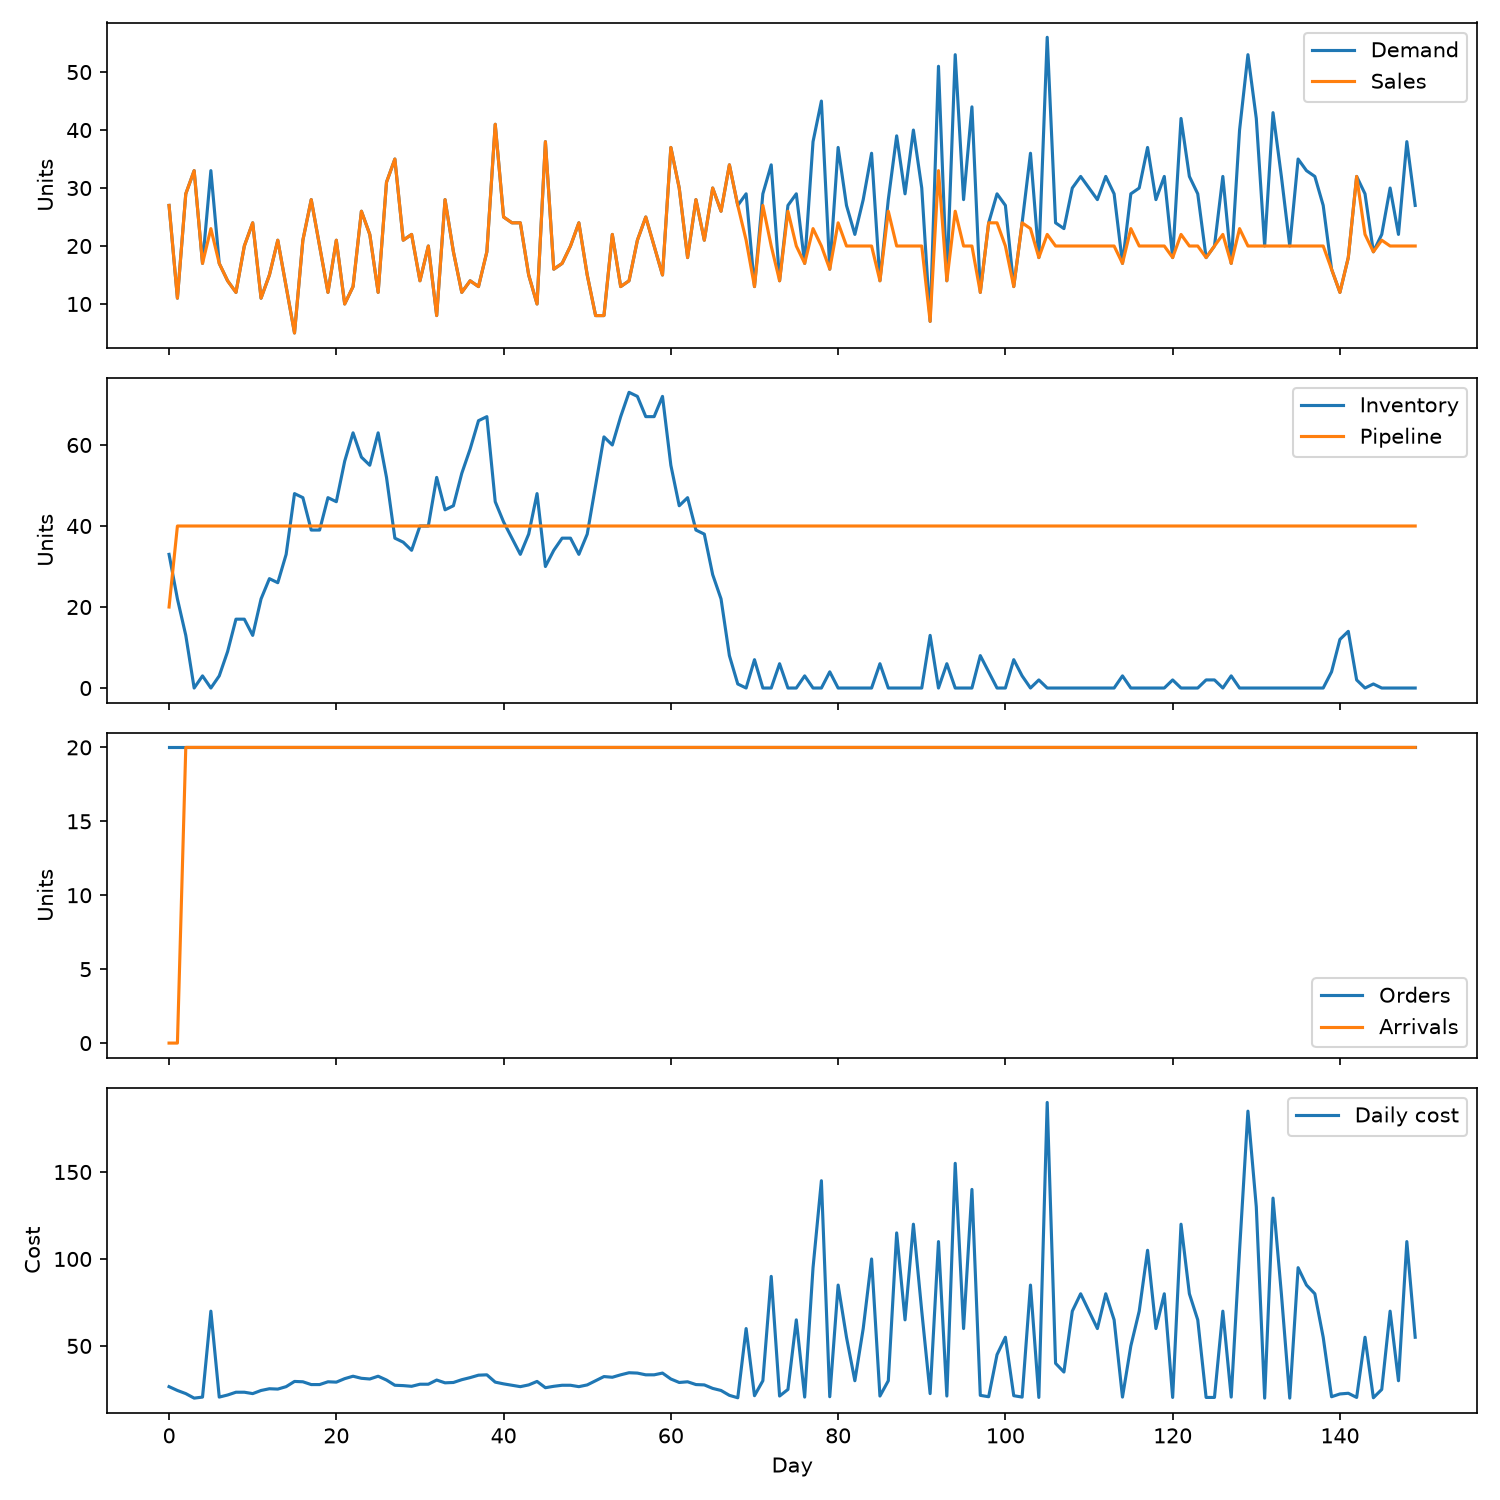
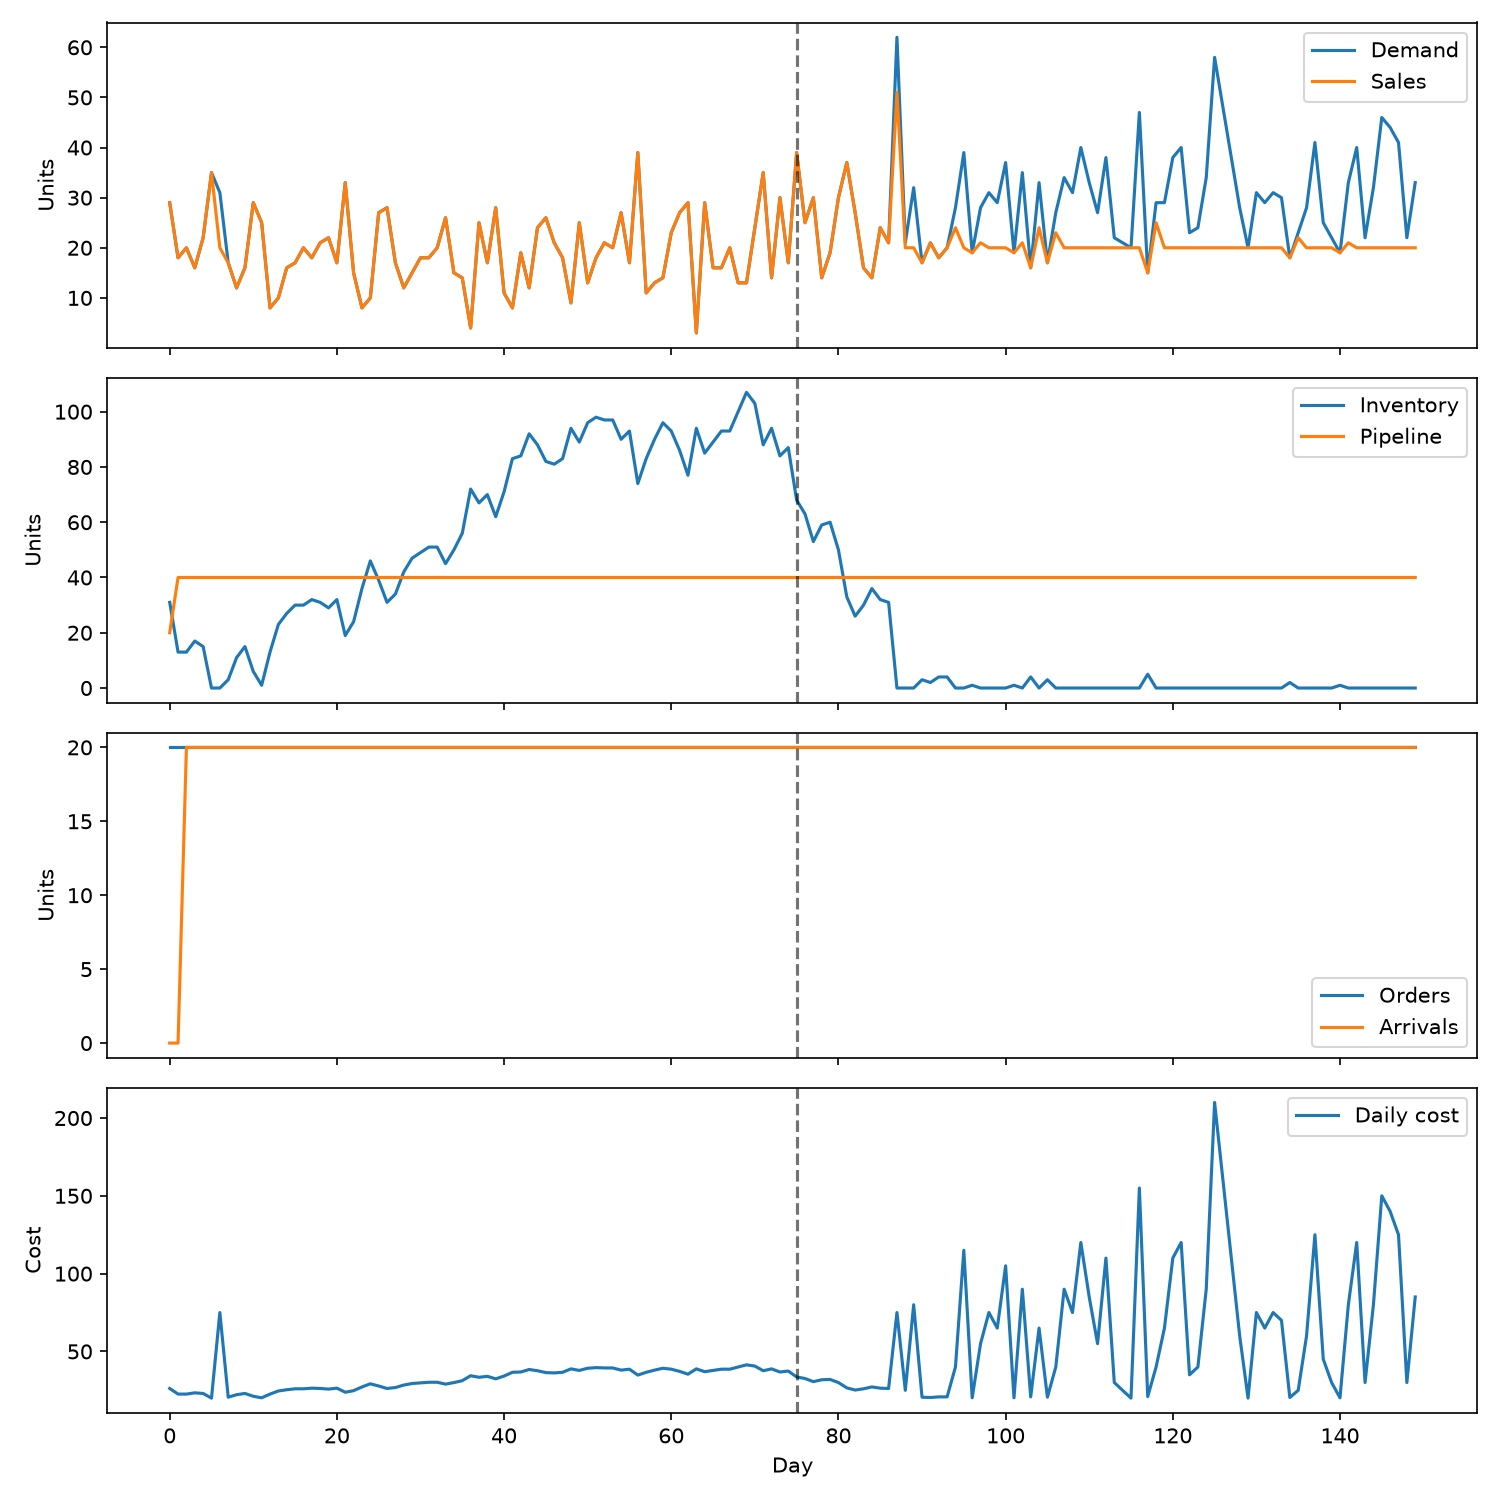
Fix Phase 1 stochastic isolation and oracle modeling

diff --git a/src/shiftmem/envs/inventory_env.py b/src/shiftmem/envs/inventory_env.py
@@ -33,7 +33,7 @@ class InventoryEnv:
         self._rng = np.random.default_rng(seed)
         self.day = 0
         self.inventory = self.scenario.initial_inventory
-        self.pending_orders: dict[int, list[int]] = {}
+        self.pending_orders: dict[int, list[tuple[int, Any]]] = {}
         self.last_demand = 0
         self.last_sales = 0
         self.records = []
@@ -49,19 +49,21 @@ class InventoryEnv:
         parameters = self.scenario.parameters_at(self.day)
 
         starting_inventory = self.inventory
-        arrivals = sum(self.pending_orders.pop(self.day, []))
+        arrivals = sum(
+            self.supplier.arrival_quantity(quantity, self._rng, supply_parameters)
+            for quantity, supply_parameters in self.pending_orders.pop(self.day, [])
+        )
         self.inventory += arrivals
         demand = self.demand_model.sample(self._rng, parameters.demand)
         sales = min(self.inventory, demand)
         lost_sales = demand - sales
         self.inventory -= sales
 
-        arrival_quantity = self.supplier.arrival_quantity(
-            quantity, self._rng, parameters.supply
-        )
-        if arrival_quantity:
+        if quantity:
             due_day = self.day + parameters.supply.lead_time
-            self.pending_orders.setdefault(due_day, []).append(arrival_quantity)
+            self.pending_orders.setdefault(due_day, []).append(
+                (quantity, parameters.supply)
+            )
 
         costs = self.scenario.costs
         purchase_cost = quantity * costs.purchase
@@ -93,11 +95,13 @@ class InventoryEnv:
         self._terminated = self.day >= self.scenario.episode_length
         return self._observation(), -float(total_cost), self._terminated, False, record.copy()
 
-    def oracle_context(self) -> dict[str, float | int]:
+    def oracle_context(self) -> dict[str, float | int | str]:
         day = min(self.day, self.scenario.episode_length - 1)
         parameters = self.scenario.parameters_at(day)
         return {
+            "demand_model": self.scenario.demand_model,
             "demand_mean": parameters.demand.mean,
+            "dispersion": parameters.demand.dispersion,
             "lead_time": parameters.supply.lead_time,
             "fill_rate": parameters.supply.fill_rate,
         }
@@ -112,7 +116,11 @@ class InventoryEnv:
         }
 
     def _pipeline_inventory(self) -> int:
-        return sum(sum(quantities) for quantities in self.pending_orders.values())
+        return sum(
+            quantity
+            for orders in self.pending_orders.values()
+            for quantity, _ in orders
+        )
 
     @staticmethod
     def _validate_action(action: Mapping[str, Any]) -> int:

diff --git a/src/shiftmem/agents/classical.py b/src/shiftmem/agents/classical.py
@@ -88,10 +88,16 @@ class OraclePolicy:
     def act(
         self,
         observation: Mapping[str, int],
-        oracle_context: Mapping[str, float | int],
+        oracle_context: Mapping[str, float | int | str],
     ) -> dict[str, int | str]:
         _validate_observation(observation)
-        required = {"demand_mean", "lead_time", "fill_rate"}
+        required = {
+            "demand_model",
+            "demand_mean",
+            "dispersion",
+            "lead_time",
+            "fill_rate",
+        }
         if not required.issubset(oracle_context):
             raise ValueError("oracle context is incomplete")
         fill_rate = float(oracle_context["fill_rate"])
@@ -100,7 +106,18 @@ class OraclePolicy:
         protection_mean = float(oracle_context["demand_mean"]) * (
             int(oracle_context["lead_time"]) + 1
         )
-        safety_stock = 2.0 * sqrt(protection_mean)
+        daily_variance = float(oracle_context["demand_mean"])
+        if oracle_context["demand_model"] == "negative_binomial":
+            dispersion = float(oracle_context["dispersion"])
+            if dispersion <= 0:
+                raise ValueError("oracle requires positive dispersion")
+            daily_variance += float(oracle_context["demand_mean"]) ** 2 / dispersion
+        elif oracle_context["demand_model"] != "poisson":
+            raise ValueError("oracle received an unsupported demand model")
+        protection_variance = daily_variance * (
+            int(oracle_context["lead_time"]) + 1
+        )
+        safety_stock = 2.0 * sqrt(protection_variance)
         target = (protection_mean + safety_stock) / fill_rate
         position = observation["inventory"] + observation["pipeline_inventory"]
         return _action(round(target - position))

diff --git a/scripts/run_episode.py b/scripts/run_episode.py
@@ -5,6 +5,8 @@ import json
 from pathlib import Path
 from typing import Any
 
+import numpy as np
+
 from shiftmem.agents.classical import (
     ExponentialSmoothingPolicy,
     FixedOrderPolicy,
@@ -44,12 +46,23 @@ def make_policy(name: str, order_quantity: int, seed: int, lead_time: int) -> An
     return OraclePolicy()
 
 
+def derive_seeds(seed: int) -> tuple[int, int]:
+    """Derive independent reproducible environment and policy seeds."""
+    environment_sequence, policy_sequence = np.random.SeedSequence(seed).spawn(2)
+    environment_seed = int(environment_sequence.generate_state(1)[0])
+    policy_seed = int(policy_sequence.generate_state(1)[0])
+    return environment_seed, policy_seed
+
+
 def main() -> int:
     args = build_parser().parse_args()
     scenario = load_scenario(args.config)
     env = InventoryEnv(scenario)
-    policy = make_policy(args.policy, args.order_quantity, args.seed, scenario.supply.lead_time)
-    observation, _ = env.reset(seed=args.seed)
+    environment_seed, policy_seed = derive_seeds(args.seed)
+    policy = make_policy(
+        args.policy, args.order_quantity, policy_seed, scenario.supply.lead_time
+    )
+    observation, _ = env.reset(seed=environment_seed)
     terminated = False
     while not terminated:
         if args.policy == "oracle":
@@ -59,7 +72,11 @@ def main() -> int:
         observation, _, terminated, _, _ = env.step(action)
     summary = summarize_episode(env.records)
     if args.figure:
-        plot_episode(env.records, args.figure)
+        plot_episode(
+            env.records,
+            args.figure,
+            shift_days=[shift.start_day for shift in scenario.shifts],
+        )
     print(json.dumps(summary, ensure_ascii=False, sort_keys=True))
     return 0
 

diff --git a/tests/unit/test_inventory_env.py b/tests/unit/test_inventory_env.py
@@ -113,5 +113,35 @@ def test_seed_reproduces_complete_records() -> None:
 def test_oracle_context_is_separate_from_observation() -> None:
     env = InventoryEnv(make_scenario(), ConstantDemand(1))
     observation, _ = env.reset(seed=1)
-    assert env.oracle_context() == {"demand_mean": 3, "lead_time": 2, "fill_rate": 1.0}
+    assert env.oracle_context() == {
+        "demand_model": "poisson",
+        "demand_mean": 3,
+        "dispersion": 10.0,
+        "lead_time": 2,
+        "fill_rate": 1.0,
+    }
     assert set(env.oracle_context()).isdisjoint(observation)
+
+
+def test_uncertain_fill_is_not_revealed_before_arrival() -> None:
+    scenario = Scenario(
+        name="uncertain-fill",
+        episode_length=3,
+        initial_inventory=0,
+        demand_model="poisson",
+        demand=DemandParameters(base_level=1),
+        supply=SupplyParameters(lead_time=2, fill_rate=0.5),
+        costs=CostParameters(purchase=0, holding=0, stockout=0),
+    )
+    env = InventoryEnv(scenario, ConstantDemand(0))
+    env.reset(seed=4)
+    observation, _, _, _, first = env.step(
+        {"order_quantity": 10, "supplier_id": "standard"}
+    )
+    assert observation["pipeline_inventory"] == 10
+    assert first["pipeline_inventory"] == 10
+    env.step({"order_quantity": 0, "supplier_id": "standard"})
+    _, _, _, _, arrival_day = env.step(
+        {"order_quantity": 0, "supplier_id": "standard"}
+    )
+    assert 0 <= arrival_day["arrivals"] <= 10

diff --git a/src/shiftmem/evaluation/plots.py b/src/shiftmem/evaluation/plots.py
@@ -10,7 +10,11 @@ matplotlib.use("Agg")
 import matplotlib.pyplot as plt
 
 
-def plot_episode(records: Sequence[dict[str, Any]], output_path: str | Path) -> Path:
+def plot_episode(
+    records: Sequence[dict[str, Any]],
+    output_path: str | Path,
+    shift_days: Sequence[int] = (),
+) -> Path:
     """Save a four-panel diagnostic plot for one inventory episode."""
     if not records:
         raise ValueError("cannot plot an empty episode")
@@ -34,6 +38,15 @@ def plot_episode(records: Sequence[dict[str, Any]], output_path: str | Path) -> 
     axes[3].legend()
     axes[3].set_ylabel("Cost")
     axes[3].set_xlabel("Day")
+    for axis in axes:
+        for index, shift_day in enumerate(shift_days):
+            axis.axvline(
+                shift_day,
+                color="black",
+                linestyle="--",
+                alpha=0.55,
+                label="Regime shift" if index == 0 else None,
+            )
     figure.tight_layout()
     figure.savefig(path, dpi=150)
     plt.close(figure)

diff --git a/tests/unit/test_classical_agents.py b/tests/unit/test_classical_agents.py
@@ -87,3 +87,28 @@ def test_oracle_mean_cost_is_below_random_policy() -> None:
     oracle_costs = [run_cost(OraclePolicy(), seed, oracle=True) for seed in range(10)]
     random_costs = [run_cost(RandomOrderPolicy(0, 20, seed=seed), seed) for seed in range(10)]
     assert np.mean(oracle_costs) < np.mean(random_costs)
+
+
+def test_oracle_accounts_for_negative_binomial_overdispersion() -> None:
+    policy = OraclePolicy()
+    poisson = policy.act(
+        OBSERVATION,
+        {
+            "demand_model": "poisson",
+            "demand_mean": 10,
+            "dispersion": 4,
+            "lead_time": 2,
+            "fill_rate": 1.0,
+        },
+    )
+    negative_binomial = policy.act(
+        OBSERVATION,
+        {
+            "demand_model": "negative_binomial",
+            "demand_mean": 10,
+            "dispersion": 4,
+            "lead_time": 2,
+            "fill_rate": 1.0,
+        },
+    )
+    assert negative_binomial["order_quantity"] > poisson["order_quantity"]

diff --git a/tests/unit/test_plots.py b/tests/unit/test_plots.py
@@ -1,0 +1,18 @@
+from pathlib import Path
+
+from shiftmem.evaluation.plots import plot_episode
+
+
+def test_plot_accepts_shift_markers(tmp_path: Path) -> None:
+    record = {
+        "day": 0,
+        "demand": 1,
+        "sales": 1,
+        "ending_inventory": 1,
+        "pipeline_inventory": 0,
+        "order_quantity": 0,
+        "arrivals": 0,
+        "total_cost": 0,
+    }
+    output = plot_episode([record], tmp_path / "marked.png", shift_days=[0])
+    assert output.stat().st_size > 0

diff --git a/tests/unit/test_seed_derivation.py b/tests/unit/test_seed_derivation.py
@@ -1,0 +1,7 @@
+from scripts.run_episode import derive_seeds
+
+
+def test_environment_and_policy_use_distinct_reproducible_seeds() -> None:
+    assert derive_seeds(42) == derive_seeds(42)
+    environment_seed, policy_seed = derive_seeds(42)
+    assert environment_seed != policy_seed

diff --git a/docs/implementation_log.md b/docs/implementation_log.md
@@ -12,3 +12,11 @@ Implementation decisions and deviations from the specification will be recorded 
 - Kept true demand mean, lead time, and fill rate in an explicit Oracle-only context.
 - Added two protection-period standard deviations of safety stock to the simplified Oracle after its mean-only base-stock rule failed the required random-policy sanity comparison.
 - Used synthetic scenarios only; no external data or model API is required in Phase 1.
+
+## 2026-07-13 — Phase 1 diagnostic corrections
+
+- Deferred stochastic fill-rate sampling until the order arrival day. Pipeline inventory now reports the nominal outstanding order quantity rather than revealing the future realized fill.
+- Extended Oracle-only context with demand-model type and dispersion. Oracle safety stock now uses the configured Poisson or negative-binomial variance.
+- Derived independent reproducible environment and policy RNG seeds from the CLI master seed.
+- Added regime-shift markers to generated diagnostic figures.
+- Retained fixed-order policy as an intentionally weak sanity baseline; multi-seed aggregation remains a separate evaluation task.
